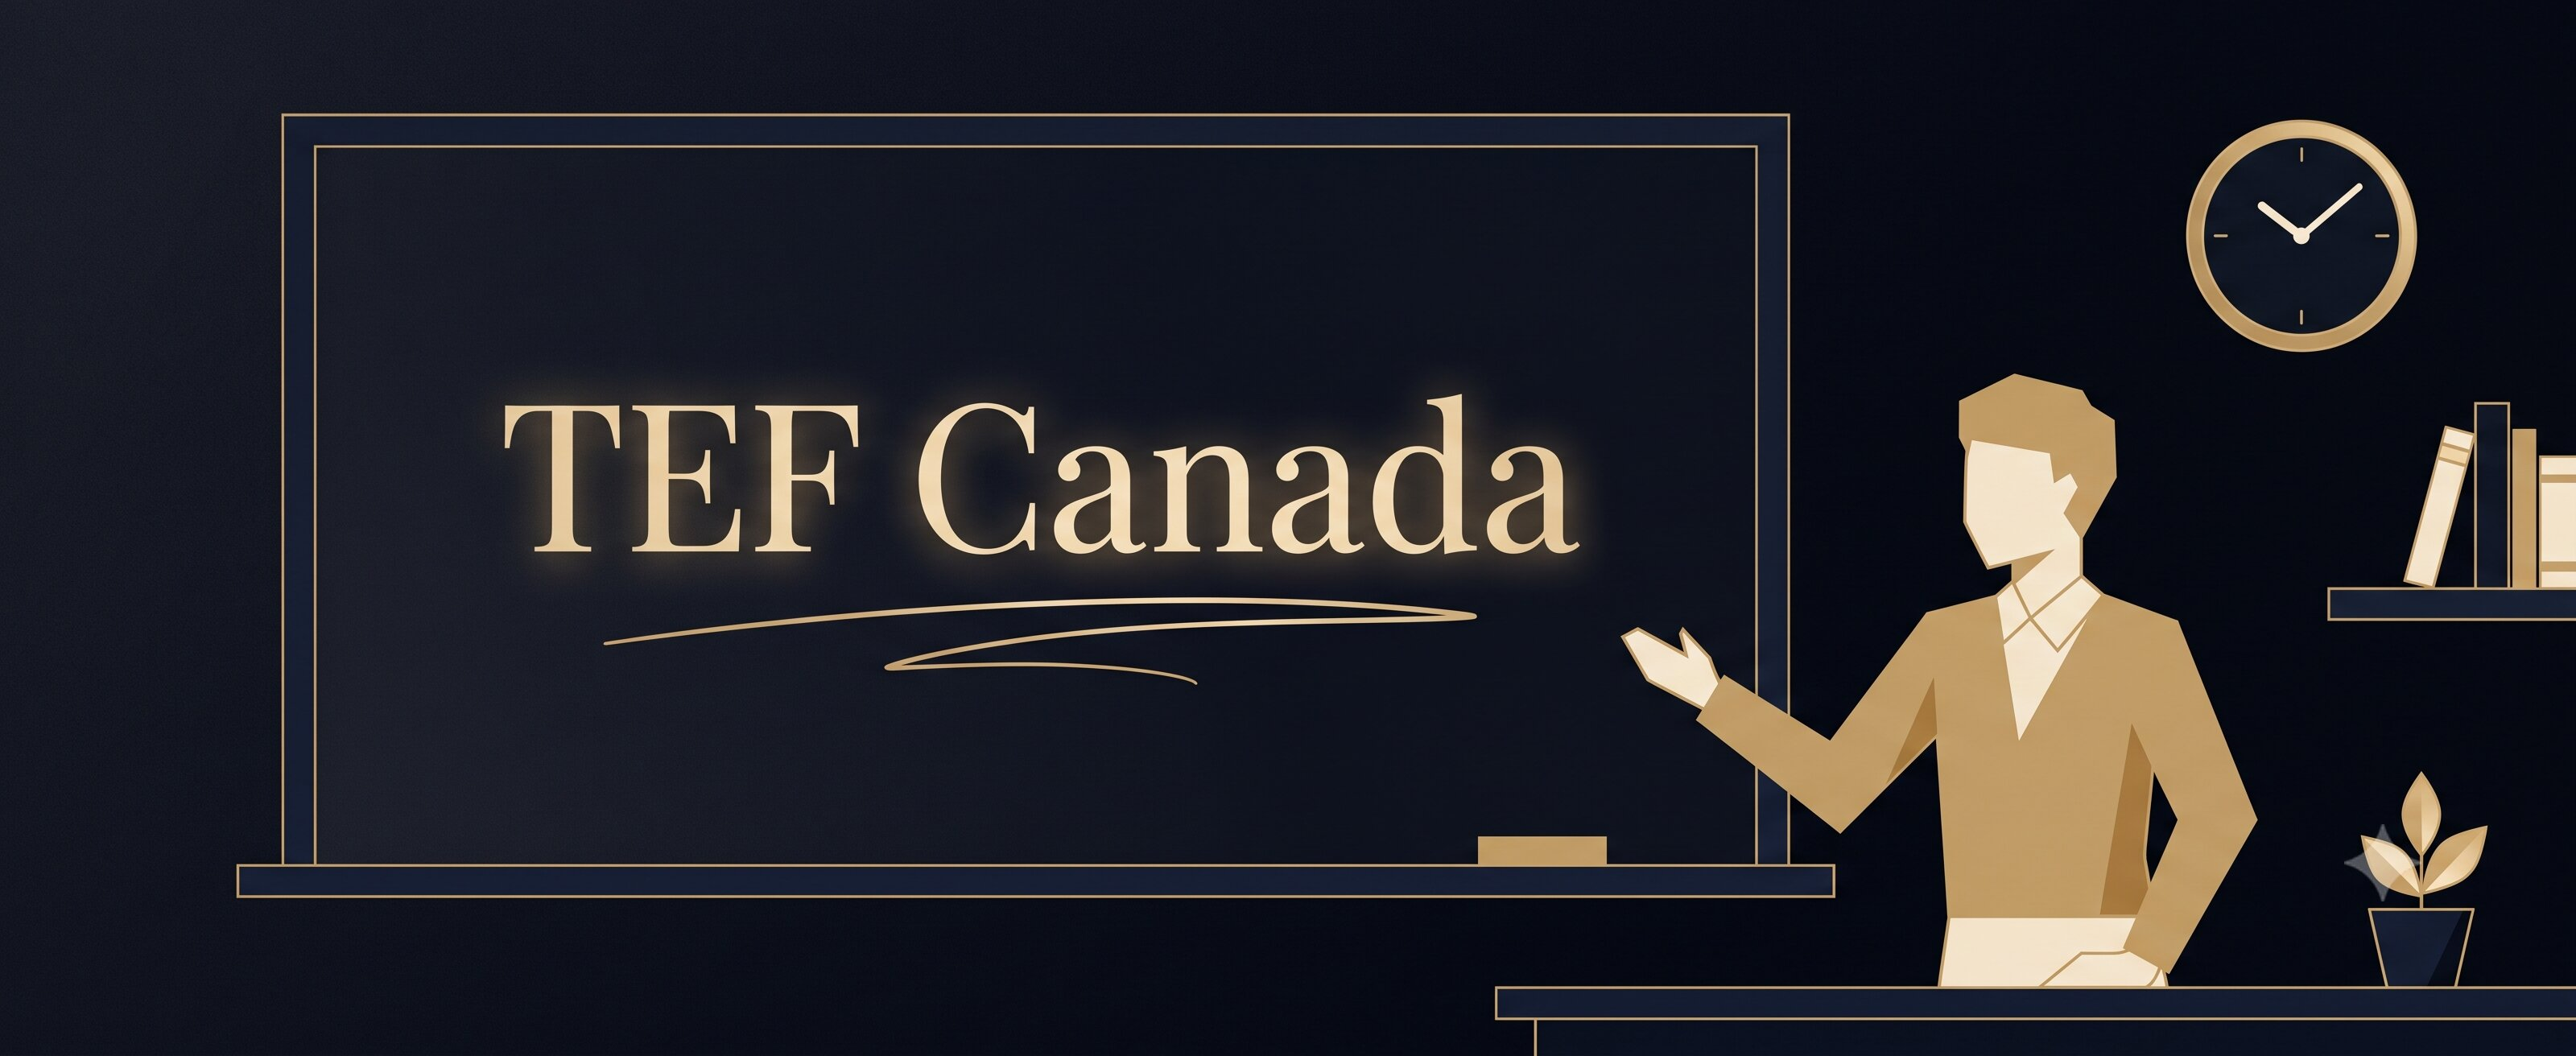
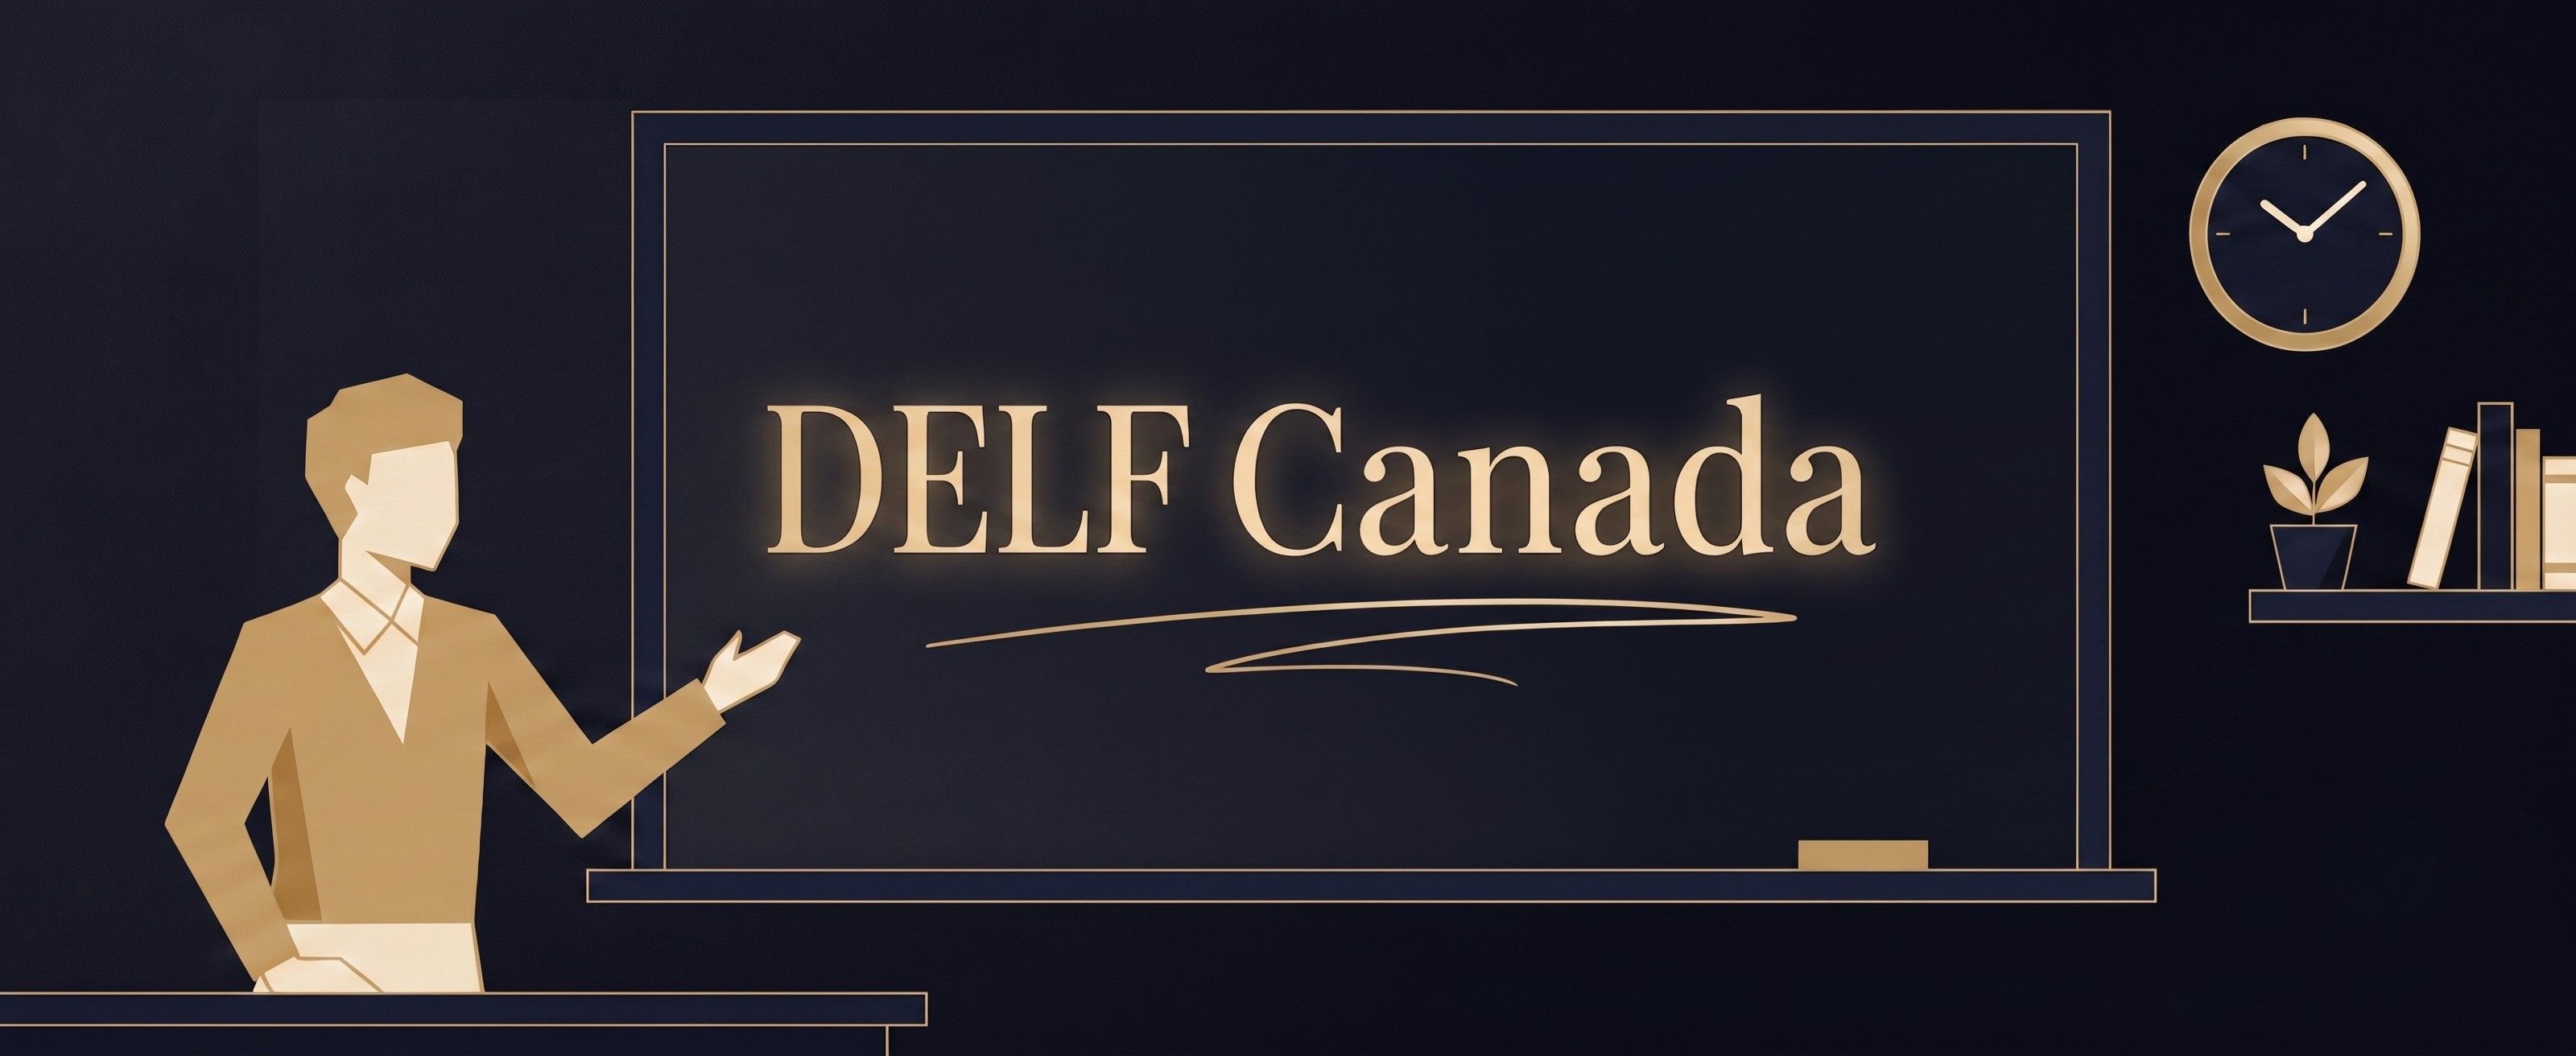
changes

Changed region(s): [[0.0312, 0.0938, 1.0, 1.0], [0.875, 0.4062, 1.0, 0.5938]]

diff --git a/components/sections/TestimonialsV2.tsx b/components/sections/TestimonialsV2.tsx
@@ -1,13 +1,18 @@
-import Image from "next/image";
+"use client";
+
+import { useCallback, useEffect, useState } from "react";
+import useEmblaCarousel from "embla-carousel-react";
 import { SectionHeading } from "@/components/ui/SectionHeading";
 import { Icon } from "@/components/ui/Icon";
+import { cn } from "@/lib/cn";
 import type { Testimonial, SectionHeadingContent } from "@/content/types";
 
 /**
- * TestimonialsV2 — adds a square (rounded-12px) real-person photo to each card,
- * top-left with the name + result beside it. Replaces the initial-avatar
- * Testimonials for the homepage; the original stays for /french-canada.
- * Photo is ~76px desktop / ≥64px mobile. Card surface + quote styling unchanged.
+ * TestimonialsV2 — editorial quote cards in an Embla slider (same control
+ * pattern as GoalsCarouselV3: arrows + dots). 1 card/view mobile, 2 tablet,
+ * 3 desktop. Header is text-only: student name (bold) above a gold credential
+ * line with a verified badge — no avatar image. Card surface + quote styling
+ * unchanged. Used on the homepage and /french-canada.
  */
 export function TestimonialsV2({
   heading,
@@ -16,50 +21,98 @@ export function TestimonialsV2({
   heading: SectionHeadingContent;
   testimonials: Testimonial[];
 }) {
+  const [emblaRef, emblaApi] = useEmblaCarousel({ loop: true, align: "start" });
+  const [selected, setSelected] = useState(0);
+  const [snaps, setSnaps] = useState<number[]>([]);
+
+  const onSelect = useCallback(() => {
+    if (!emblaApi) return;
+    setSelected(emblaApi.selectedScrollSnap());
+  }, [emblaApi]);
+
+  useEffect(() => {
+    if (!emblaApi) return;
+    setSnaps(emblaApi.scrollSnapList());
+    emblaApi.on("select", onSelect);
+    onSelect();
+    return () => {
+      emblaApi.off("select", onSelect);
+    };
+  }, [emblaApi, onSelect]);
+
   return (
     <section className="w-full border-y border-hairline bg-surface section-y">
       <div className="mx-auto max-w-container-wide px-5 md:px-16">
         <SectionHeading heading={heading.heading} className="mb-7 lg:mb-14" />
 
-        <div className="hide-scrollbar -mx-5 flex snap-x snap-mandatory gap-4 md:gap-6 overflow-x-auto px-5 md:mx-0 md:grid md:grid-cols-3 md:overflow-visible md:px-0">
-          {testimonials.map((t) => (
-            <figure
-              key={t.name}
-              className="relative flex w-[85%] shrink-0 snap-center flex-col gap-6 overflow-hidden rounded-card border border-hairline bg-canvas/50 p-8 md:w-auto"
+        <div className="relative">
+          {/* Embla viewport. Slides carry their gap as padding-left (loop-safe). */}
+          <div className="overflow-hidden" ref={emblaRef}>
+            <div className="flex items-stretch -ml-4 md:-ml-6">
+              {testimonials.map((t) => (
+                <div
+                  key={t.name}
+                  className="min-w-0 pl-4 md:pl-6 flex-[0_0_85%] sm:flex-[0_0_50%] lg:flex-[0_0_33.333%]"
+                >
+                  <figure className="relative flex h-full flex-col gap-6 overflow-hidden rounded-card border border-hairline bg-canvas/50 p-8">
+                    <span
+                      aria-hidden="true"
+                      className="pointer-events-none absolute -bottom-6 -right-2 select-none font-serif text-8xl text-gold/5"
+                    >
+                      &rdquo;
+                    </span>
+
+                    <figcaption>
+                      <p className="font-bold text-ink">{t.name}</p>
+                      <p className="mt-0.5 flex items-center gap-1 text-sm text-gold">
+                        <Icon name="verified" className="text-[15px]" filled />
+                        {t.role}
+                      </p>
+                    </figcaption>
+
+                    <blockquote className="relative italic text-muted">&ldquo;{t.quote}&rdquo;</blockquote>
+                  </figure>
+                </div>
+              ))}
+            </div>
+          </div>
+
+          {/* Controls — arrows (desktop) + dots. */}
+          <div className="mt-8 flex items-center justify-center gap-4">
+            <button
+              type="button"
+              aria-label="Previous slide"
+              onClick={() => emblaApi?.scrollPrev()}
+              className="hidden h-10 w-10 items-center justify-center rounded-full border border-hairline text-ink/60 transition-colors hover:border-gold hover:text-gold focus-gold md:flex"
             >
-              <span
-                aria-hidden="true"
-                className="pointer-events-none absolute -bottom-6 -right-2 select-none font-serif text-8xl text-gold/5"
-              >
-                &rdquo;
-              </span>
+              <Icon name="chevron_left" />
+            </button>
 
-              <div className="flex items-center gap-4">
-                {t.image ? (
-                  <Image
-                    src={t.image.src}
-                    alt={t.image.alt}
-                    width={80}
-                    height={80}
-                    className="h-16 w-16 shrink-0 rounded-input border border-hairline object-cover md:h-[76px] md:w-[76px]"
-                  />
-                ) : (
-                  <span className="flex h-16 w-16 shrink-0 items-center justify-center rounded-input bg-gold/20 text-xl font-bold text-gold md:h-[76px] md:w-[76px]">
-                    {t.name.charAt(0)}
-                  </span>
-                )}
-                <figcaption>
-                  <p className="font-bold text-ink">{t.name}</p>
-                  <p className="mt-0.5 flex items-center gap-1 text-sm text-gold">
-                    <Icon name="verified" className="text-[15px]" filled />
-                    {t.role}
-                  </p>
-                </figcaption>
-              </div>
+            <div className="flex gap-2">
+              {snaps.map((_, i) => (
+                <button
+                  key={i}
+                  type="button"
+                  aria-label={`Go to slide ${i + 1}`}
+                  aria-current={i === selected}
+                  onClick={() => emblaApi?.scrollTo(i)}
+                  className={cn(
+                    "h-2 rounded-full transition-all",
+                    i === selected ? "w-6 bg-gold" : "w-2 bg-white/20",
+                  )}
+                />
+              ))}
+            </div>
 
-              <blockquote className="relative italic text-muted">&ldquo;{t.quote}&rdquo;</blockquote>
-            </figure>
-          ))}
+            <button
+              type="button"
+              aria-label="Next slide"
+              onClick={() => emblaApi?.scrollNext()}
+              className="hidden h-10 w-10 items-center justify-center rounded-full border border-hairline text-ink/60 transition-colors hover:border-gold hover:text-gold focus-gold md:flex"
+            >
+              <Icon name="chevron_right" />
+            </button>
+          </div>
         </div>
       </div>
     </section>

diff --git a/content/home.ts b/content/home.ts
@@ -344,29 +344,56 @@ export const homeTestimonialsHeading: SectionHeadingContent = {
   heading: { before: "Rated 4.9/5 by our", accent: "learners" },
 };
 
-// PLACEHOLDER — replace with real, permissioned student testimonials AND photos.
-// Placeholder portraits live in /public/images/testimonials/ (swap for real photos).
+// TODO: Replace with real student testimonials — names used with consent.
+// `name` = student name (bold top line); `role` = "credential · role" (gold line).
 export const homeTestimonials: Testimonial[] = [
   {
-    name: "Marketing Manager",
-    role: "DELF B1 in 7 months",
+    name: "Manpreet K.",
+    role: "DELF B1 in 7 months · Marketing Manager",
     outcome: "DELF B1",
-    quote: "The structured approach and live correction made all the difference. I walked into the DELF exam already knowing what it would feel like.",
-    image: { src: "/images/testimonials/marketing-manager.svg", alt: "Portrait of a Dees Language Lounge student" },
+    quote: "The structured approach and live correction made all the difference. I walked into the exam already knowing what it would feel like.",
   },
   {
-    name: "Design Student",
-    role: "DELE A2",
+    name: "Sofia R.",
+    role: "DELE A2 · Design Student",
     outcome: "DELE A2",
     quote: "Finally, classes about speaking, not filling workbooks. My trainer knew my weak spots by week two.",
-    image: { src: "/images/testimonials/design-student.svg", alt: "Portrait of a Dees Language Lounge student" },
   },
   {
-    name: "Engineer",
-    role: "IELTS 8.0 first attempt",
+    name: "Arjun T.",
+    role: "IELTS 8.0 first attempt · Engineer",
     outcome: "IELTS 8.0",
     quote: "The mock tests and detailed feedback got me the band I needed for my visa. First attempt.",
-    image: { src: "/images/testimonials/engineer.svg", alt: "Portrait of a Dees Language Lounge student" },
+  },
+  {
+    name: "Priya S.",
+    role: "TCF Canada NCLC 7 · PGWP holder",
+    outcome: "TCF NCLC 7",
+    quote: "I needed exact scores in all four skills, not 'good French'. Every class was built around those thresholds.",
+  },
+  {
+    name: "Daniel O.",
+    role: "TEF Canada NCLC 7 in 10 months · Accountant",
+    outcome: "TEF NCLC 7",
+    quote: "Started from zero. The weekly plan told me exactly what to do between classes — that's what kept me going.",
+  },
+  {
+    name: "Keerthana V.",
+    role: "Goethe A2 · Nurse",
+    outcome: "Goethe A2",
+    quote: "Evening batches actually fit my shift schedule, and the trainer adjusted pace when I fell behind.",
+  },
+  {
+    name: "Luis M.",
+    role: "DELF B2 · Data Analyst",
+    outcome: "DELF B2",
+    quote: "Speaking practice every single class. My confidence in the oral exam came from repetition, not luck.",
+  },
+  {
+    name: "Harjot D.",
+    role: "TCF Canada NCLC 7 · Truck driver, Express Entry",
+    outcome: "TCF NCLC 7",
+    quote: "French draws were my only realistic path. Nine months later my CRS jumped 62 points.",
   },
 ];
 

diff --git a/content/frenchCanada.ts b/content/frenchCanada.ts
@@ -287,28 +287,45 @@ export const fcTestimonialsHeading: SectionHeadingContent = {
   heading: { before: "Rated 4.9/5 by our", accent: "learners" },
 };
 
-// PLACEHOLDER — replace with real, permissioned students AND photos.
+// TODO: Replace with real student testimonials — names used with consent.
+// `name` = student name (bold top line); `role` = "credential · role" (gold line).
+// Scoped to French/Canada exams only: DELF, TEF Canada, TCF Canada.
 export const fcTestimonials: Testimonial[] = [
   {
-    name: "PGWP holder, Toronto",
-    role: "TEF · CLB 7 · ITA in a French draw",
-    outcome: "CLB 7 all four",
-    quote: "My permit had 14 months left and my CRS was stuck at 438. I started from zero French. Cleared TEF with CLB 7 in all four skills and got my ITA in a French draw.",
-    image: { src: "/images/testimonials/marketing-manager.svg", alt: "Portrait of a Dees Language Lounge student" },
+    name: "Harjot D.",
+    role: "TCF Canada NCLC 7 · Truck driver, Express Entry",
+    outcome: "TCF NCLC 7",
+    quote: "French draws were my only realistic path. Nine months later my CRS jumped 62 points and I had my ITA.",
   },
   {
-    name: "Software engineer, Brampton",
-    role: "Weekly mock orals",
-    outcome: "Exam felt familiar",
-    quote: "Grammar finally made sense because my trainer explained it through Hindi. But the real difference was the weekly mock orals — the exam felt familiar.",
-    image: { src: "/images/testimonials/engineer.svg", alt: "Portrait of a Dees Language Lounge student" },
+    name: "Ramanpreet S.",
+    role: "TEF Canada CLB 7 · PGWP holder, Toronto",
+    outcome: "TEF CLB 7",
+    quote: "My permit had 14 months left and my CRS was stuck at 438. I cleared TEF with CLB 7 in all four skills and got my ITA in a French draw.",
   },
   {
-    name: "Nurse, Surrey",
-    role: "Evening batches · one-play listening",
-    outcome: "Ready on exam day",
-    quote: "Evening batches meant I could study after shifts. The one-play listening drills saved me — the real TEF audio plays once, and I was ready.",
-    image: { src: "/images/testimonials/design-student.svg", alt: "Portrait of a Dees Language Lounge student" },
+    name: "Daniel O.",
+    role: "TEF Canada NCLC 7 in 10 months · Accountant",
+    outcome: "TEF NCLC 7",
+    quote: "Started from zero. The one-play listening drills made exam day feel familiar — the real TEF audio plays once, and I was ready.",
+  },
+  {
+    name: "Meera J.",
+    role: "TCF Canada NCLC 7 · Nurse, Surrey",
+    outcome: "TCF NCLC 7",
+    quote: "Evening batches fit around my shifts, and the computer-based mock tests meant nothing on exam day surprised me.",
+  },
+  {
+    name: "Aditya K.",
+    role: "DELF B2 · Software Engineer",
+    outcome: "DELF B2",
+    quote: "Grammar finally clicked because my trainer explained it through Hindi. Speaking every class got me to DELF B2 with real confidence.",
+  },
+  {
+    name: "Simran G.",
+    role: "DELF B1 in 7 months · Student",
+    outcome: "DELF B1",
+    quote: "I wanted a solid French foundation before sitting the Canada exams. Reaching DELF B1 in seven months proved the method works.",
   },
 ];
 

diff --git a/components/layout/Logo.tsx b/components/layout/Logo.tsx
@@ -1,22 +1,25 @@
+import Image from "next/image";
 import Link from "next/link";
 import { site } from "@/content/site";
 
-// Circular gold monogram + wordmark (DESIGN.md §4 navigation).
+// Brand logo image (winged DLL mark + "Dees Language Lounge" wordmark baked in),
+// on a transparent PNG so it sits on the dark canvas. `compact` renders it a
+// touch smaller for tight chrome.
 export function Logo({ compact = false }: { compact?: boolean }) {
   return (
     <Link
       href="/"
-      className="flex items-center gap-3 focus-gold rounded-icon"
+      className="flex items-center focus-gold rounded-icon"
       aria-label={`${site.name} — home`}
     >
-      <span className="flex h-10 w-10 shrink-0 items-center justify-center rounded-full bg-cta-gradient shadow-glow-logo">
-        <span className="font-display text-lg leading-none text-canvas">{site.monogram}</span>
-      </span>
-      {!compact ? (
-        <span className="whitespace-nowrap text-lg font-bold uppercase tracking-widest text-gold md:text-xl">
-          {site.wordmark}
-        </span>
-      ) : null}
+      <Image
+        src="/images/logo_280x134.png"
+        alt={site.name}
+        width={280}
+        height={134}
+        priority
+        className={compact ? "h-12 w-auto" : "h-14 w-auto md:h-24"}
+      />
     </Link>
   );
 }

diff --git a/components/portal/PortalShell.tsx b/components/portal/PortalShell.tsx
@@ -1,6 +1,7 @@
 "use client";
 
 import { useState } from "react";
+import Image from "next/image";
 import Link from "next/link";
 import { usePathname, useRouter } from "next/navigation";
 import { Icon } from "@/components/ui/Icon";
@@ -68,14 +69,8 @@ export function PortalShell({
 
   const sidebar = (
     <div className="flex h-full flex-col p-4">
-      <Link href={homeHref} className="mb-10 flex items-center gap-3 px-2 focus-gold rounded-icon">
-        <span className="flex h-10 w-10 shrink-0 items-center justify-center rounded-lg bg-cta-gradient shadow-glow-logo">
-          <span className="font-display text-xl leading-none text-canvas">{site.monogram}</span>
-        </span>
-        <span className="flex flex-col leading-none">
-          <span className="font-display text-xl tracking-tight text-gold">Dees</span>
-          <span className="text-[10px] uppercase tracking-[0.2em] text-muted">Language Lounge</span>
-        </span>
+      <Link href={homeHref} className="mb-10 flex items-center justify-center px-2 focus-gold rounded-icon">
+        <Image src="/images/logo_280x134.png" alt={site.name} width={280} height={134} className="h-20 w-auto" />
       </Link>
 
       <nav className="flex flex-col gap-1">

diff --git a/components/layout/Footer.tsx b/components/layout/Footer.tsx
@@ -1,3 +1,4 @@
+import Image from "next/image";
 import Link from "next/link";
 import { footer as defaultFooter, site } from "@/content/site";
 import { NewsletterForm } from "@/components/forms/NewsletterForm";
@@ -38,12 +39,9 @@ export function Footer({
         <div className="flex flex-col justify-between gap-12 md:flex-row">
           {/* Brand + blurb + newsletter */}
           <div className="max-w-sm space-y-6">
-            <div className="flex items-center gap-3">
-              <span className="flex h-11 w-11 items-center justify-center rounded-full bg-cta-gradient shadow-glow-logo">
-                <span className="font-display text-lg text-canvas">{site.monogram}</span>
-              </span>
-              <span className="font-display text-2xl tracking-wide text-ink">Dees Lounge</span>
-            </div>
+            <Link href="/" aria-label={`${site.name} — home`} className="block w-fit mx-auto md:mx-0 focus-gold rounded-icon">
+              <Image src="/images/logo_280x134.png" alt={site.name} width={280} height={134} className="h-24 w-auto" />
+            </Link>
             <p className="leading-relaxed text-muted">{content.blurb}</p>
             <NewsletterForm />
           </div>

diff --git a/components/layout/Navbar.tsx b/components/layout/Navbar.tsx
@@ -38,7 +38,7 @@ export function Navbar() {
         <div
           className={cn(
             "mx-auto flex w-full max-w-container-wide items-center justify-between px-5 transition-all duration-300 md:px-16",
-            scrolled ? "h-16" : "h-20",
+            scrolled ? "h-16 md:h-28" : "h-20 md:h-28",
           )}
         >
           <Logo />